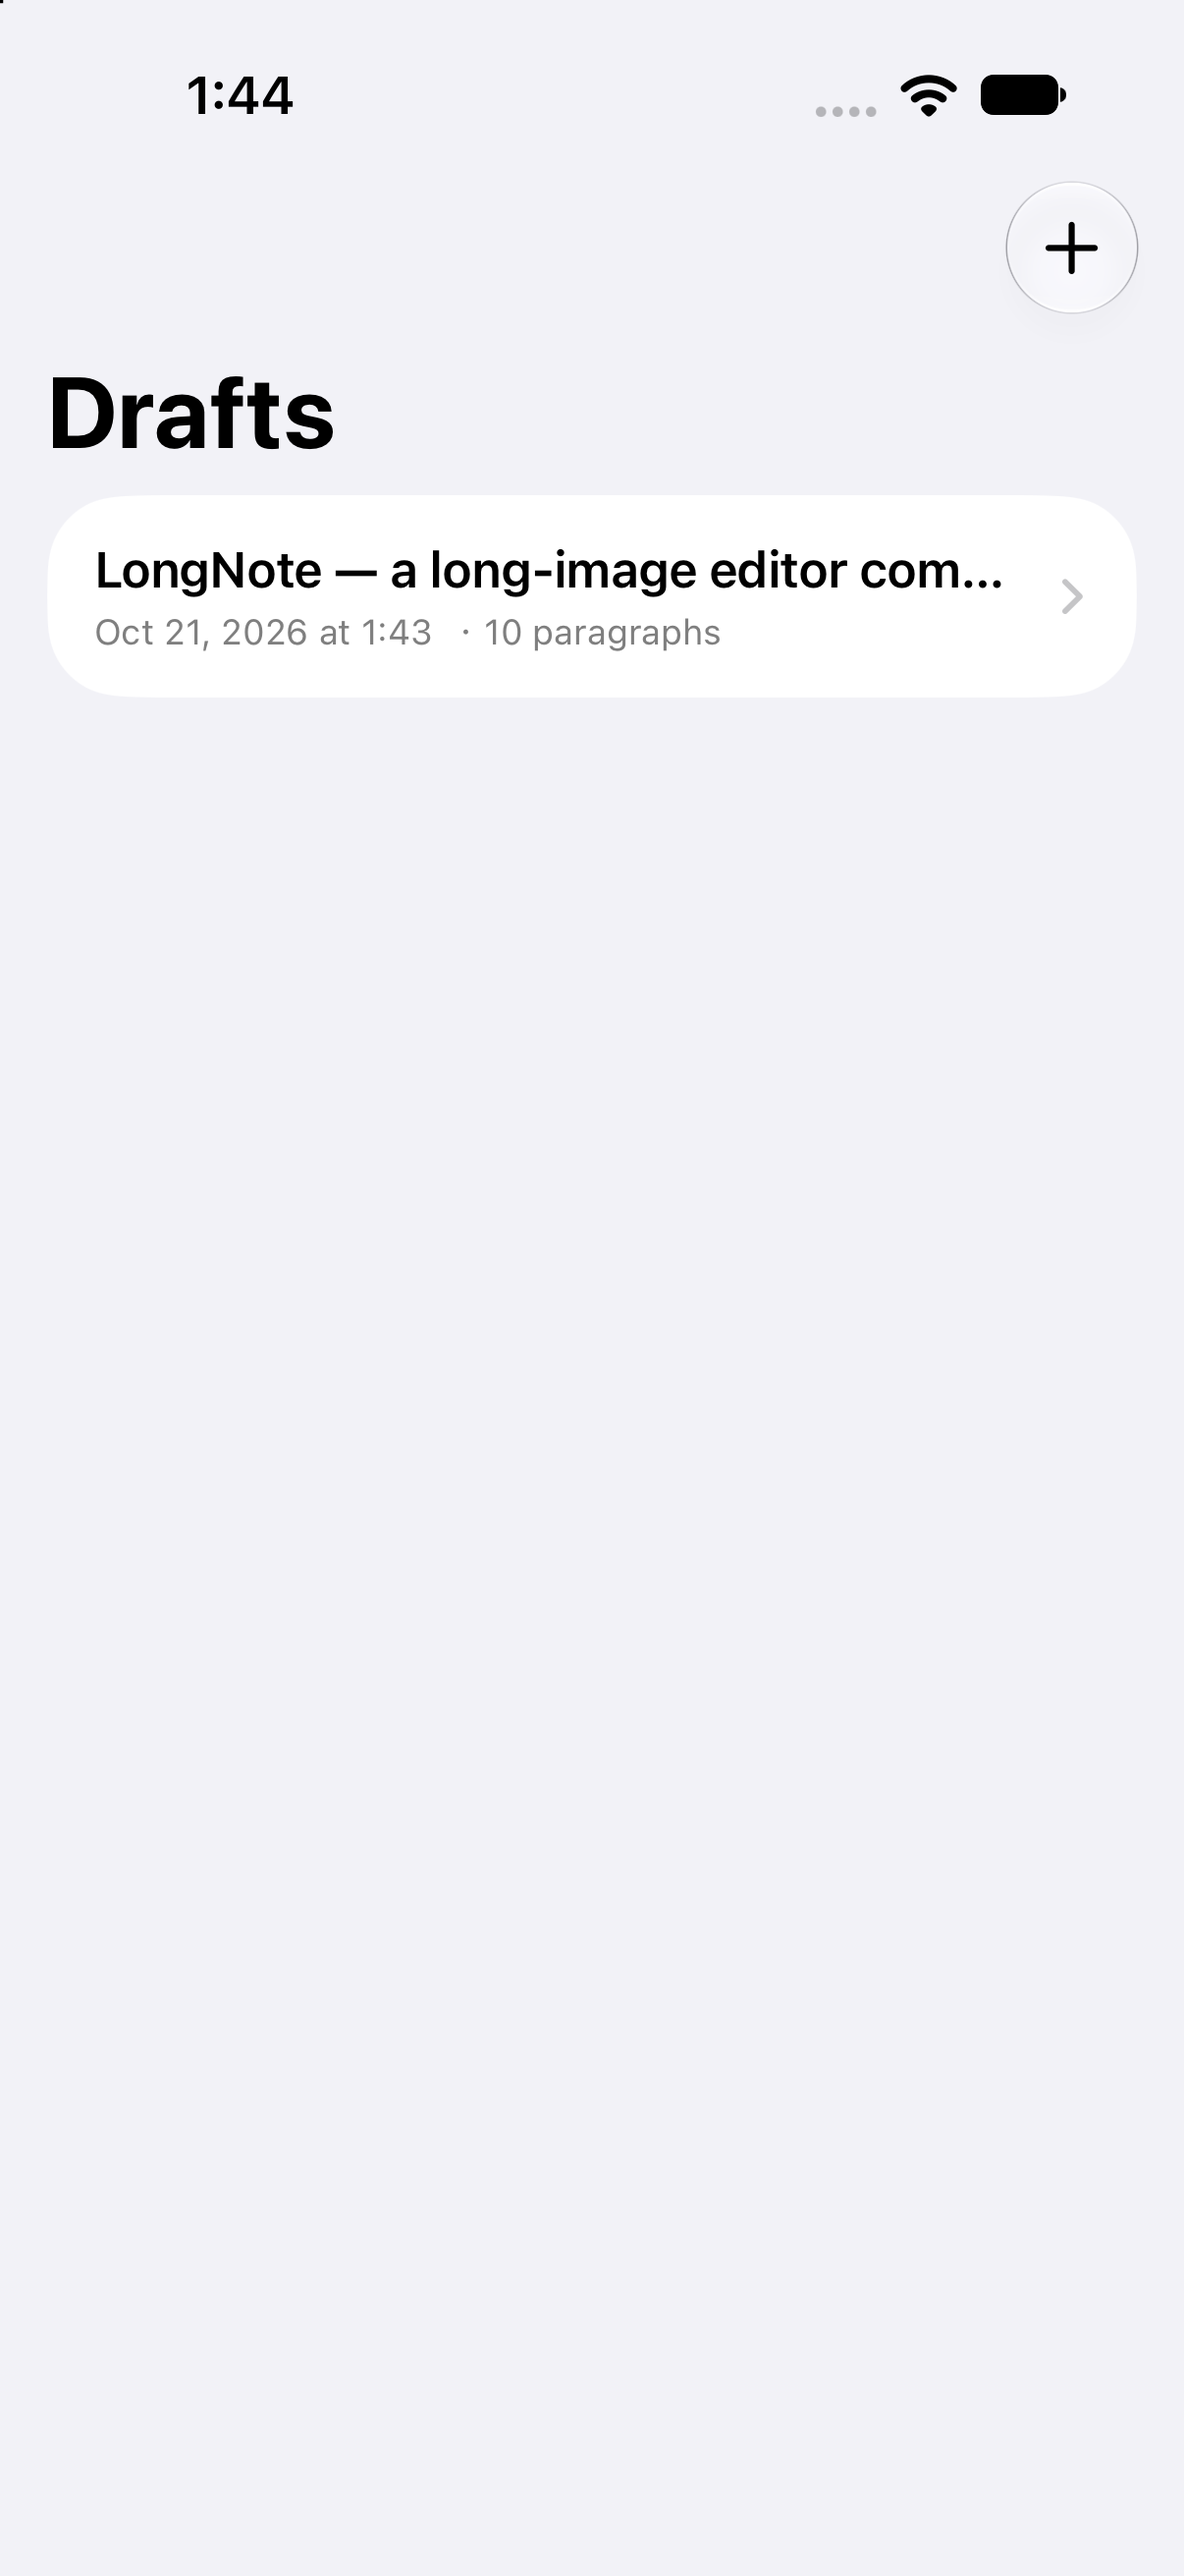
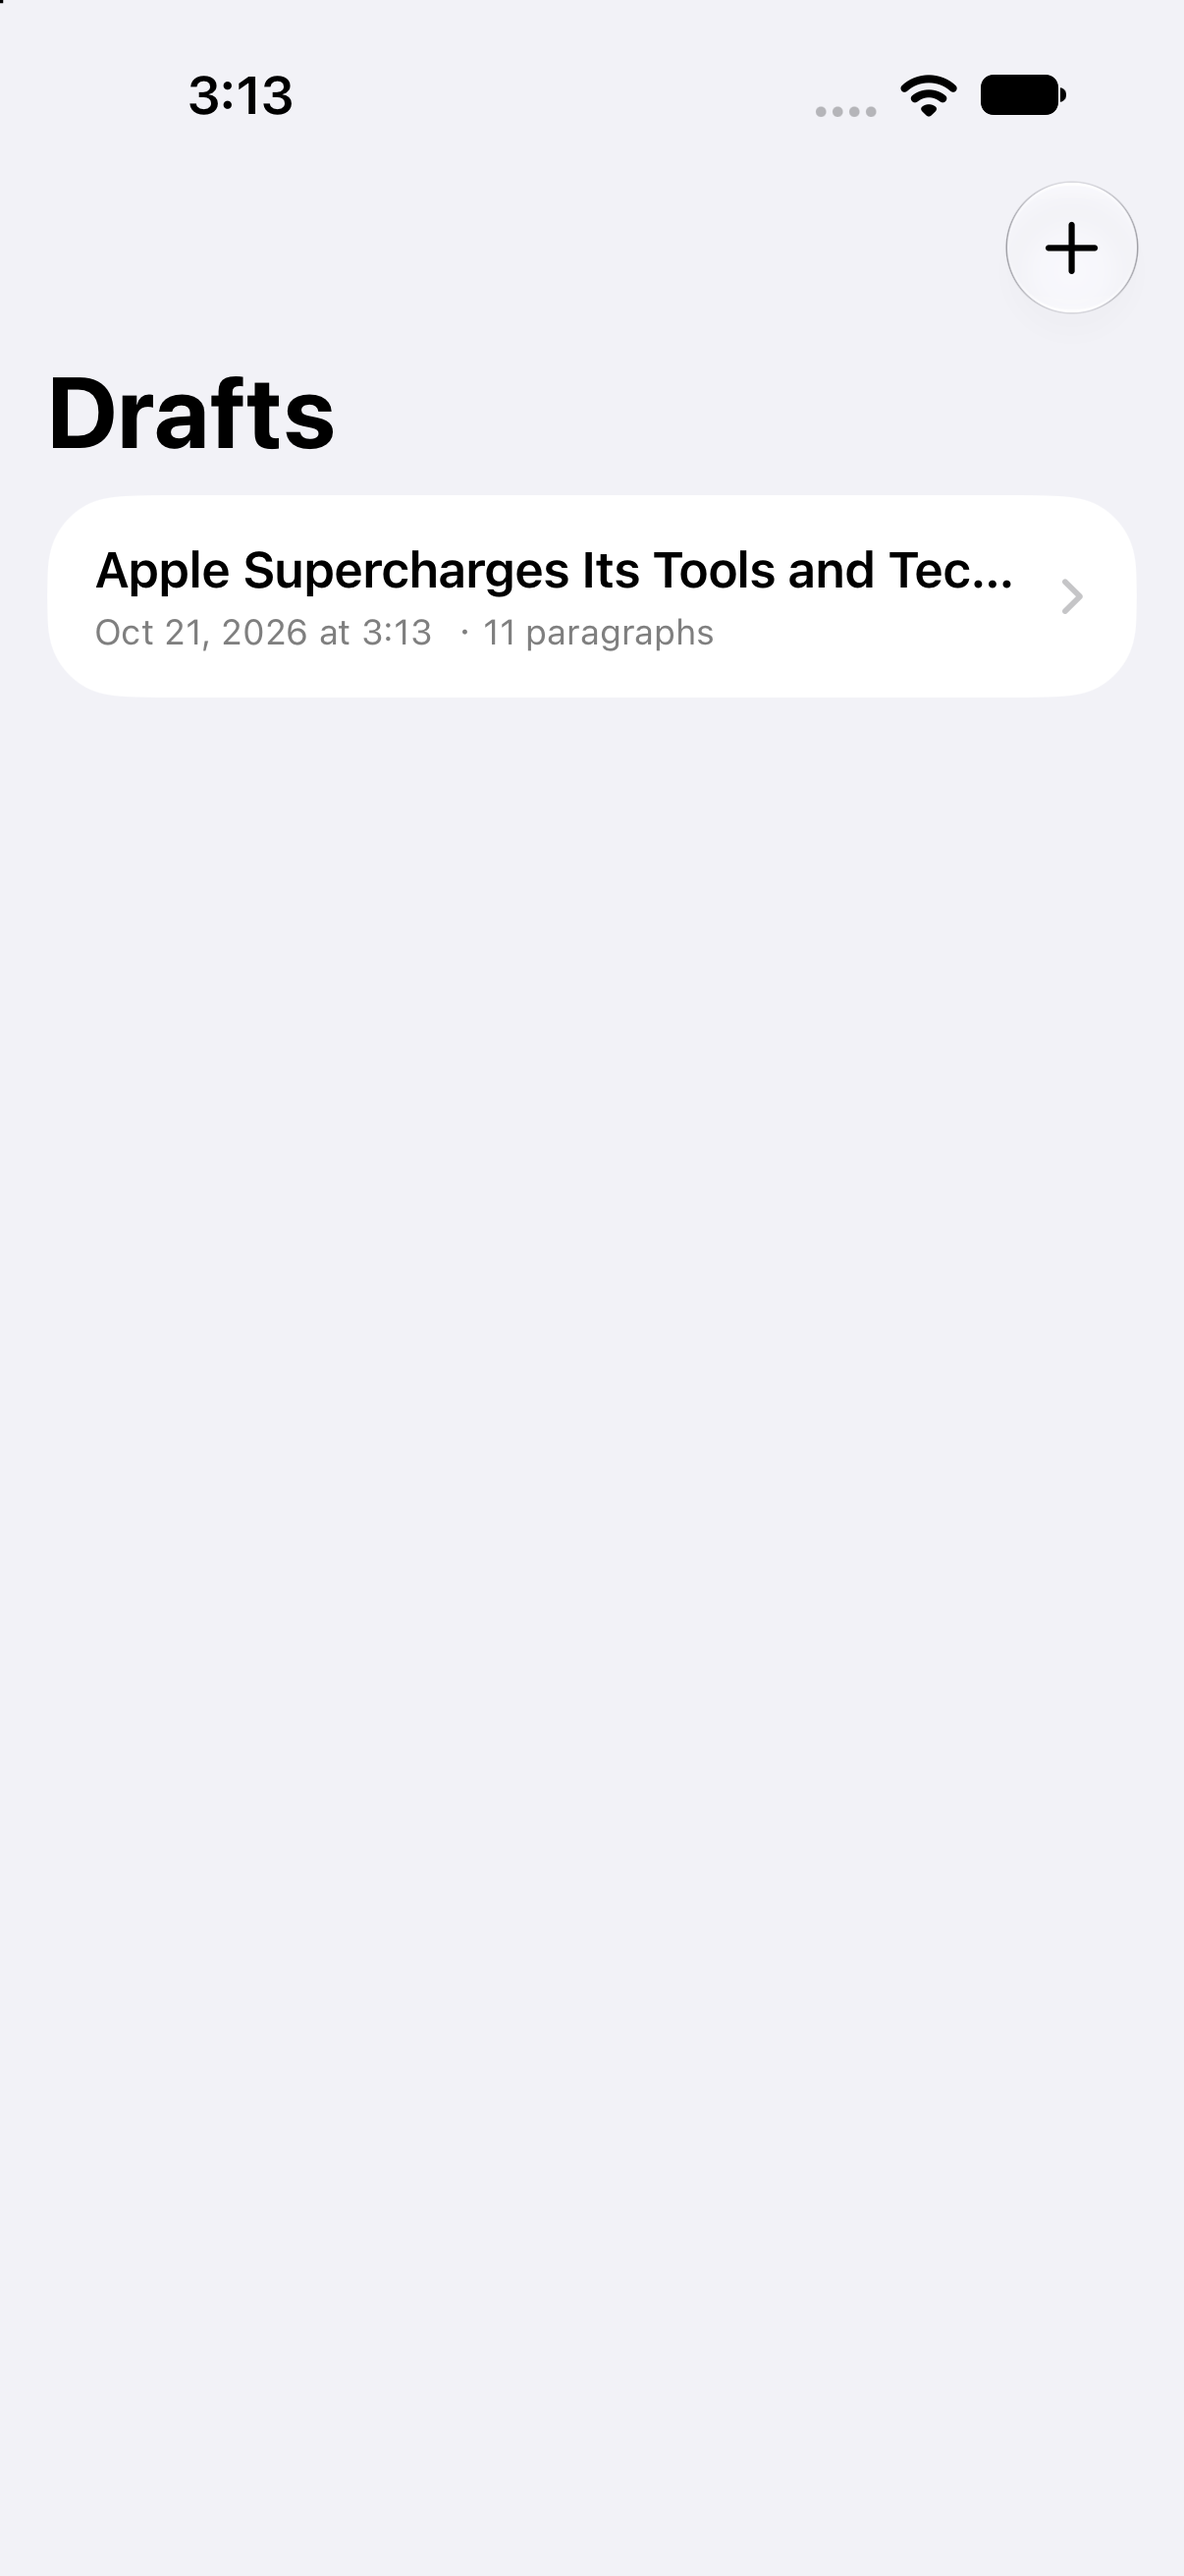
Fix paragraph text wrapping and refresh screenshots
A UITextView with scrolling disabled reports the full unwrapped text as
its intrinsic content size, so SwiftUI sized every paragraph row to that
width: long paragraphs laid out on one enormous line and ran off both
screen edges (first characters invisible), while short ones looked fine.
LongNoteTextView now opts out of intrinsic sizing, so SwiftUI proposes
the real layout width and the text wraps normally; the reported height
drives the row height.

Regenerated the English screenshots with the final UI: news-style sample
article with cover image, all block styles, and the labeled bottom
toolbar (Style / Image / Divider / Link / Color).

Changed region(s): [[0.092, 0.2162, 0.8284, 0.2471], [0.1534, 0.0309, 0.2454, 0.0618]]

diff --git a/Sources/LongNote/Editor/RichTextView.swift b/Sources/LongNote/Editor/RichTextView.swift
@@ -132,23 +132,6 @@
       textView.delegate = nil
     }
 
-    /// Always take the width SwiftUI proposes.
-    ///
-    /// Without this the representable is sized to the text view's *intrinsic*
-    /// content size — for a `UITextView` with scrolling disabled that is the
-    /// full unwrapped text width. Short paragraphs happen to fit on screen;
-    /// long ones lay out far wider than the screen and run off both edges
-    /// (and their first characters become invisible). Returning the proposal
-    /// pins the text container to the available width so text wraps normally.
-    /// `fileprivate` because `LongNoteTextView` is a private type.
-    fileprivate func sizeThatFits(
-      _ proposal: ProposedViewSize, uiView: LongNoteTextView, context: Context
-    ) -> CGSize? {
-      let width = proposal.width ?? (uiView.frame.width > 0 ? uiView.frame.width : 320)
-      let height = proposal.height ?? uiView.frame.height
-      return CGSize(width: width, height: height)
-    }
-
     // MARK: - Coordinator
 
     @MainActor
@@ -240,7 +223,11 @@
 
   /// Internal `UITextView` subclass that draws a placeholder when empty and reports
   /// layout passes so the SwiftUI row height stays exact.
-  private final class LongNoteTextView: UITextView {
+  ///
+  /// Internal (not private) so `sizeThatFits(_:uiView:context:)` above can name
+  /// it in an internal signature — a fileprivate witness is not picked up by
+  /// SwiftUI's representable sizing.
+  final class LongNoteTextView: UITextView {
     var placeholder: String?
     var onLayoutSubviews: (() -> Void)?
 
@@ -257,6 +244,19 @@
     override func layoutSubviews() {
       super.layoutSubviews()
       onLayoutSubviews?()
+    }
+
+    /// Report *no* intrinsic size.
+    ///
+    /// A `UITextView` with `isScrollEnabled = false` reports the full unwrapped
+    /// text as its intrinsic content size (a 4,000-character paragraph wants a
+    /// 5,000 pt-wide view!). When SwiftUI takes that as the representable's
+    /// size, the text lays out on one enormous line and runs off both screen
+    /// edges. Opting out lets SwiftUI propose the real layout width, so the
+    /// text wraps at the available width; the row height is driven by
+    /// `RichTextView`'s reported height instead.
+    override var intrinsicContentSize: CGSize {
+      CGSize(width: UIView.noIntrinsicMetric, height: UIView.noIntrinsicMetric)
     }
 
     required init?(coder: NSCoder) {
